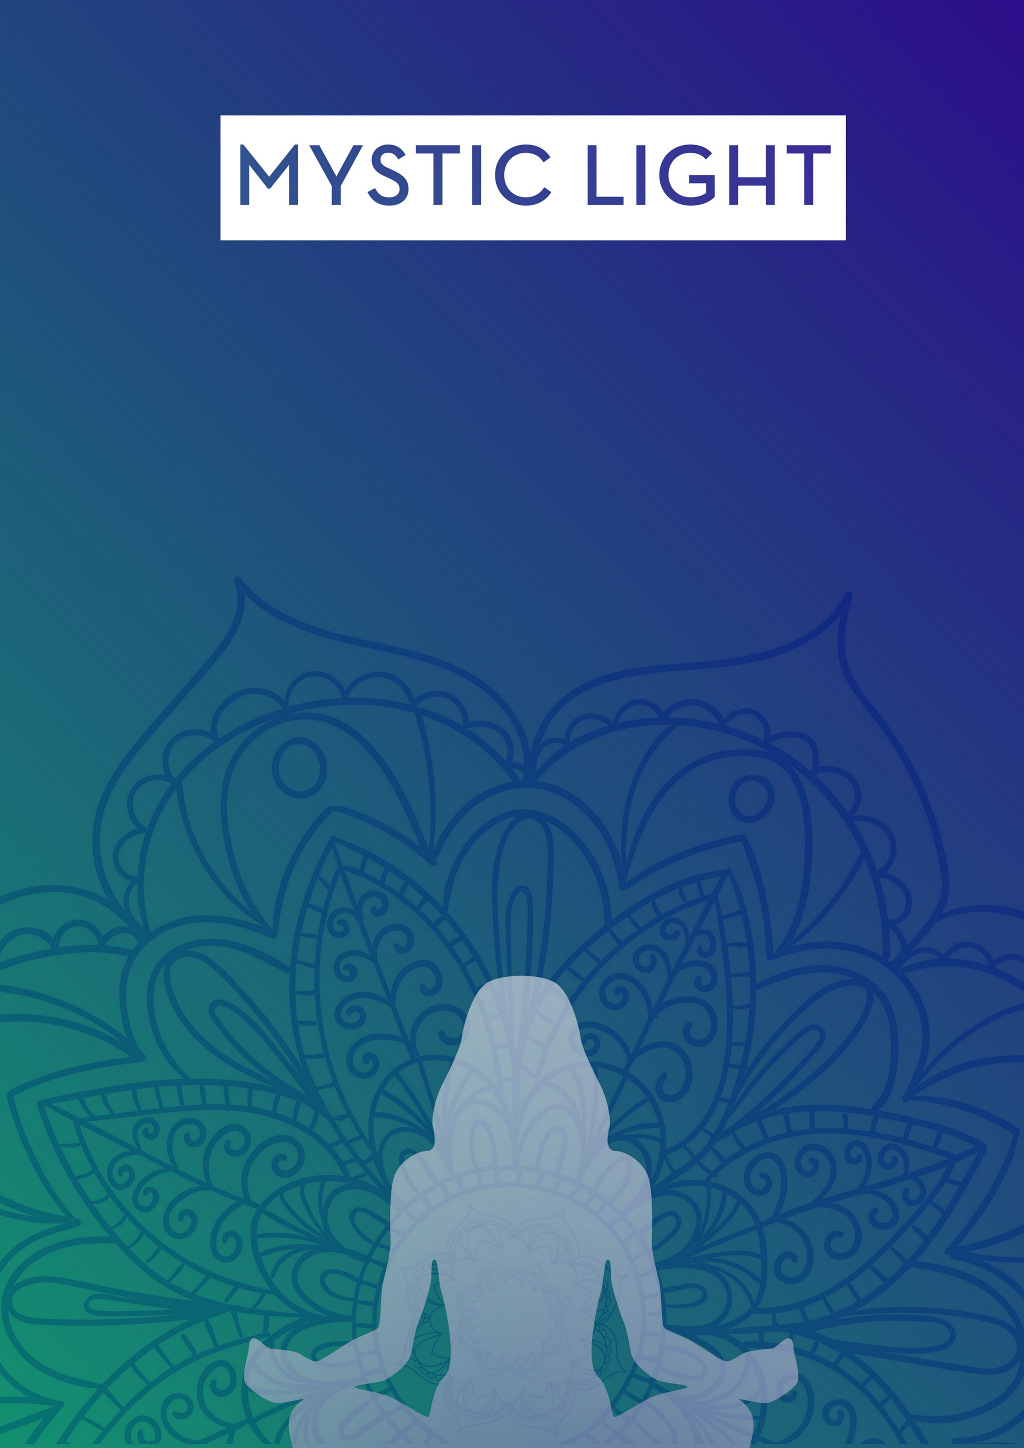
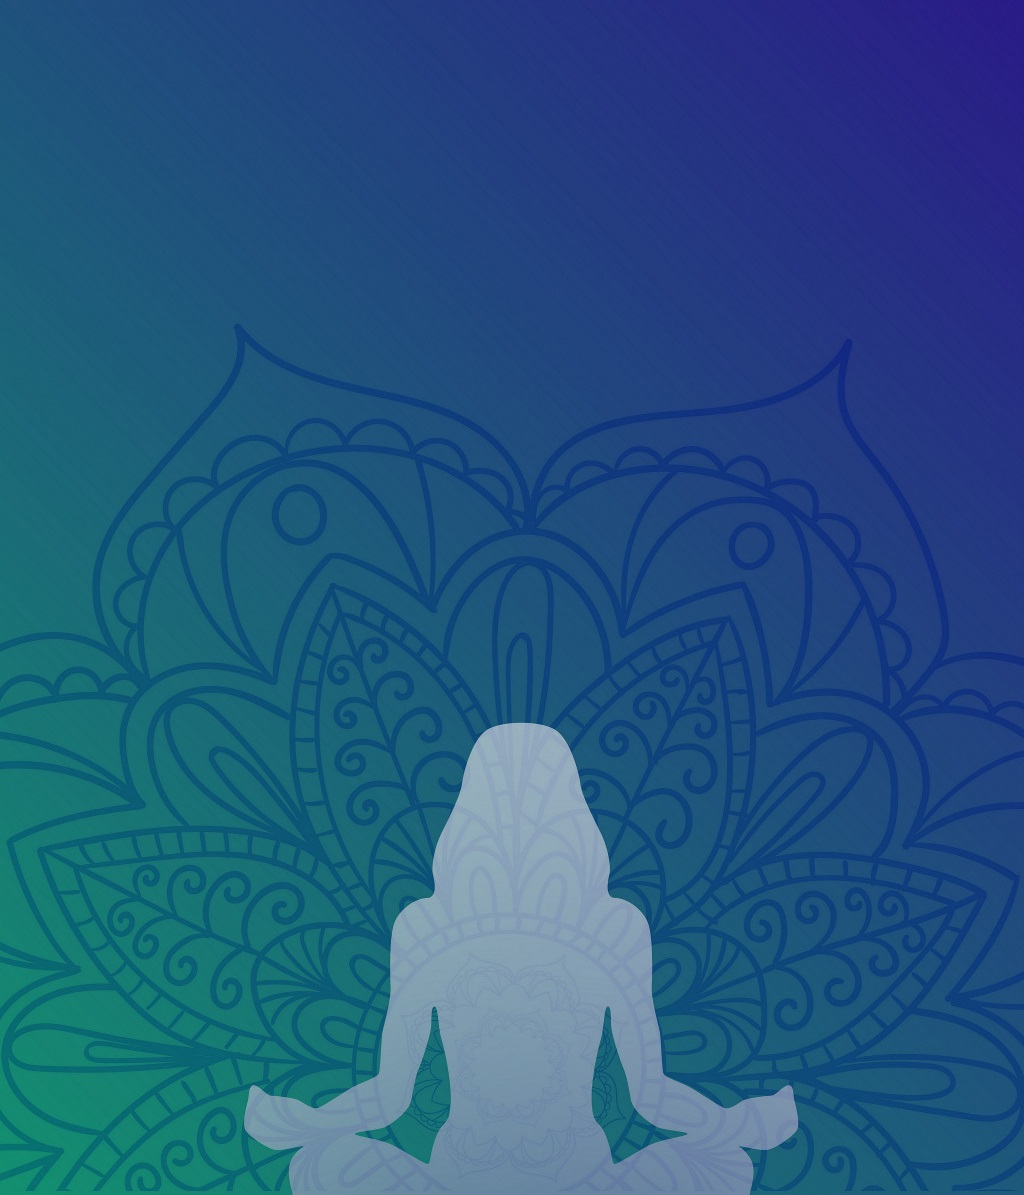
header change

diff --git a/static/styles.css b/static/styles.css
@@ -34,6 +34,41 @@ body::before {
     background-image: url('images/ml_bg_2880.jpg');
   }
 }
+
+@media (max-width: 512px)  and (-webkit-min-device-pixel-ratio: 1.5),
+       (max-width: 512px)  and (min-resolution: 1.5dppx),
+       (max-width: 1024px) and (-webkit-max-device-pixel-ratio: 1.5),
+       (max-width: 1024px) and (max-resolution: 1.5dppx) {
+  .headerlogo {
+    background: url('images/ml_logo_1024.jpg');
+    width: 100%;
+    background-position:center center;
+    background-repeat: no-repeat;
+  }
+}
+@media (min-width: 513px)  and (max-width: 1024px) and (-webkit-min-device-pixel-ratio: 1.5),
+       (min-width: 513px)  and (max-width: 1024px) and (min-resolution: 1.5dppx),
+       (min-width: 1025px) and (max-width: 2048px) and (-webkit-max-device-pixel-ratio: 1.5),
+       (min-width: 1025px) and (max-width: 2048px) and (max-resolution: 1.5dppx)  {
+  .headerlogo {
+    background: url('images/ml_logo_2048.jpg');
+    width: 100%;
+    background-position:center center;
+    background-repeat: no-repeat;
+  }
+}
+@media (min-width: 1025px) and (-webkit-min-device-pixel-ratio: 1.5),
+       (min-width: 1025px) and (min-resolution: 1.5dppx),
+       (min-width: 2049px) and (-webkit-max-device-pixel-ratio: 1.5),
+       (min-width: 2049px) and (max-resolution: 1.5dppx) {
+  .headerlogo {
+    background: url('images/ml_logo_2880.jpg');
+    width: 100%;
+    background-position:center center;
+    background-repeat: no-repeat;
+  }
+}
+
 body .demo-blog {
   font-family: 'Roboto', 'Helvetica', sans-serif;
 }

diff --git a/templates/template.html b/templates/template.html
@@ -63,6 +63,11 @@
   <body>
     <div class="demo-blog mdl-layout mdl-js-layout has-drawer is-upgraded">
       <main class="mdl-layout__content">
+        <!-- demo-blog__posts -->
+        <div class=" mdl-grid">
+          <div class="headerlogo mdl-card mdl-shadow--0dp">
+          </div>
+        </div>
         {% block body %}{% endblock %}
         <footer class="mdl-mini-footer">
           <div class="mdl-mini-footer--left-section">
